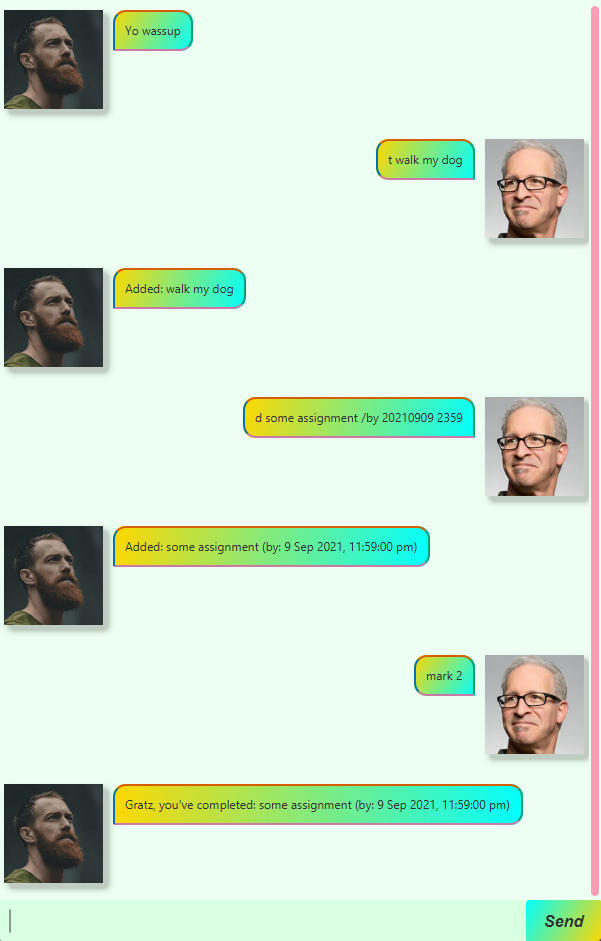
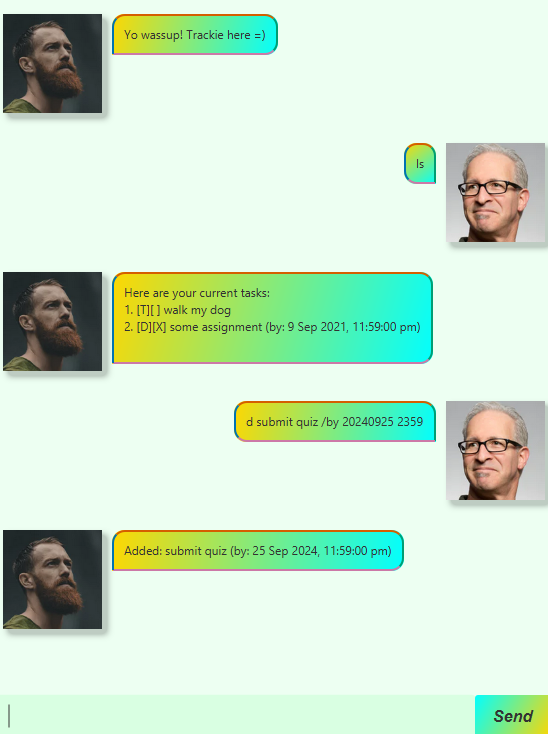
Update the representative screenshot

diff --git a/src/main/java/trackie/ui/MainWindow.java b/src/main/java/trackie/ui/MainWindow.java
@@ -38,7 +38,8 @@ public class MainWindow extends AnchorPane {
 
     public void greet() {
         dialogContainer.getChildren().addAll(
-                DialogBox.getTrackieDialog("Yo wassup", new Image(this.getClass().getResourceAsStream("/images/DaDuke.png"))));
+                DialogBox.getTrackieDialog("Yo wassup! Trackie here =)",
+                        new Image(this.getClass().getResourceAsStream("/images/DaDuke.png"))));
     }
 
     /**
